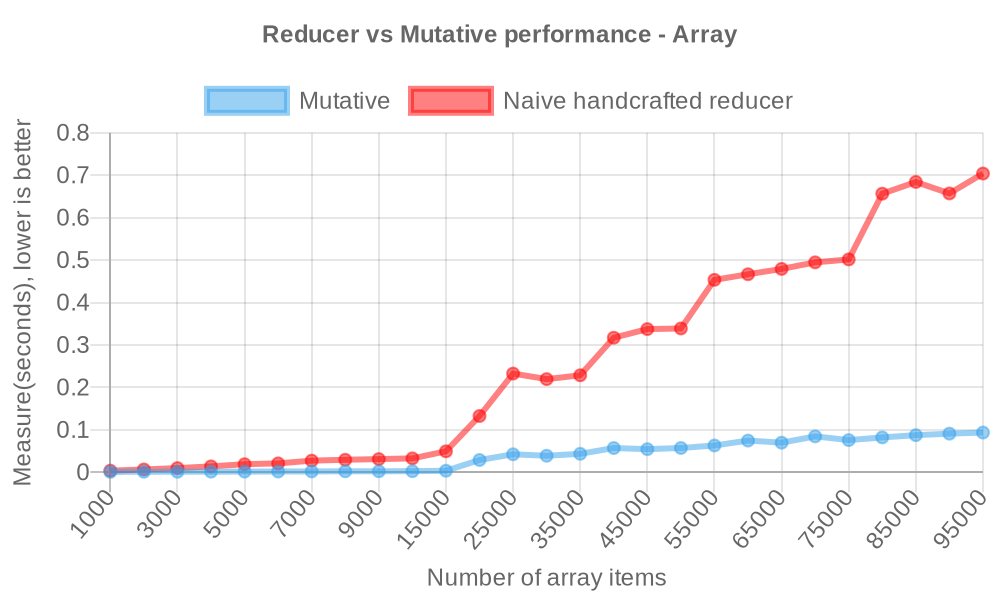
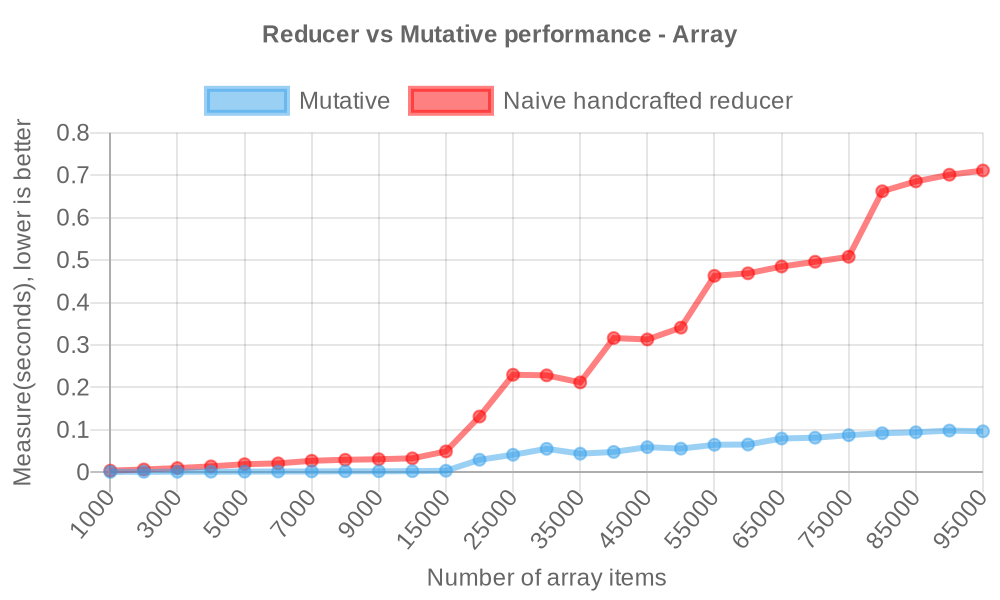
docs(readme): update benchmark doc about mutative vs reducers

diff --git a/test/performance/benchmark-object.ts b/test/performance/benchmark-object.ts
@@ -83,7 +83,7 @@ const run = (size: number) => {
     Array(size)
       .fill(1)
       .reduce(
-        (i, _, key) => Object.assign(i, { [key]: { value: key } }),
+        (acc, _, key) => Object.assign(acc, { [`key${key}`]: { value: key } }),
         {} as Record<string, { value: number }>
       );
 
@@ -97,7 +97,7 @@ const run = (size: number) => {
       'Mutative',
       () => {
         const state = create(baseState, (draft) => {
-          draft[0].value = i;
+          draft.key0.value = i;
         });
       },
       {
@@ -112,7 +112,10 @@ const run = (size: number) => {
       () => {
         const state = {
           ...baseState,
-          0: { value: i },
+          key0: {
+            ...baseState.key0,
+            value: i,
+          },
         };
       },
       {
@@ -126,7 +129,7 @@ const run = (size: number) => {
     //   'Immer',
     //   () => {
     //     const state = produce(baseState, (draft: any) => {
-    //       draft[0].value = i;
+    //       draft.key0.value = i;
     //     });
     //   },
     //   {

diff --git a/test/performance/benchmark-array.ts b/test/performance/benchmark-array.ts
@@ -107,7 +107,10 @@ const run = (size: number) => {
     .add(
       'Naive handcrafted reducer',
       () => {
-        const state = [{ value: i }, ...baseState.slice(1, baseState.length)];
+        const state = [
+          { ...baseState[0], value: i },
+          ...baseState.slice(1, baseState.length),
+        ];
       },
       {
         onStart: () => {

diff --git a/README.md b/README.md
@@ -5,9 +5,61 @@
 [![npm](https://img.shields.io/npm/v/mutative.svg)](https://www.npmjs.com/package/mutative)
 ![license](https://img.shields.io/npm/l/mutative)
 
-**Mutative** - A JavaScript library for efficient immutable updates, 10x faster than Immer by default, even faster than naive handcrafted reducer.
+**Mutative** - A JavaScript library for efficient immutable updates, more than 3x faster than hand-written reducers.
 
-![Benchmark](benchmark.jpg)
+## Mutative vs Reducer Benchmark
+
+- Mutative by objects
+
+```ts
+const state = create(baseState, (draft) => {
+  draft.key0.value = i;
+});
+```
+
+- Naive handcrafted reducer by objects
+
+```ts
+const state = {
+  ...baseState,
+  key0: {
+    ...baseState.key0,
+    value: i,
+  },
+};
+```
+
+![Benchmark by Object](benchmark-object.jpg)
+
+> Measure(seconds) to update the 1K-100K items object, lower is better([view source](https://github.com/unadlib/mutative/blob/main/test/performance/benchmark-array.ts)). 
+
+**Mutative is up to 3x faster than naive handcrafted reducer for updating immutable objects, and more than 3x faster for updating immutable arrays.**
+
+<details>
+<summary>Benchmark by Array</summary>
+
+Naive handcrafted reducer
+
+```ts
+const state = [
+  { ...baseState[0], value: i },
+  ...baseState.slice(1, baseState.length),
+];
+```
+
+Mutative
+
+```ts
+const state = create(baseState, (draft) => {
+  draft[0].value = i;
+});
+```
+
+![Benchmark by Object](benchmark-array.jpg)
+
+> Measure(seconds) to update the 1K-100K items arrays, lower is better([view source](https://github.com/unadlib/mutative/blob/main/test/performance/benchmark-array.ts)). 
+
+</details>
 
 ## Motivation
 
@@ -25,19 +77,21 @@ This is why Mutative was created.
 
 Measure(ops/sec) to update 50K arrays and 1K objects, bigger is better([view source](https://github.com/unadlib/mutative/blob/main/test/performance/benchmark.ts)). [Mutative v0.5.0 vs Immer v10.0.1]
 
+![Benchmark](benchmark.jpg)
+
 ```
-Naive handcrafted reducer - No Freeze x 4,258 ops/sec ±1.14% (89 runs sampled)
-Mutative - No Freeze x 6,421 ops/sec ±1.73% (91 runs sampled)
-Immer - No Freeze x 5.11 ops/sec ±0.78% (17 runs sampled)
+Naive handcrafted reducer - No Freeze x 3,692 ops/sec ±1.28% (95 runs sampled)
+Mutative - No Freeze x 5,425 ops/sec ±1.70% (93 runs sampled)
+Immer - No Freeze x 5.08 ops/sec ±0.58% (17 runs sampled)
 
-Mutative - Freeze x 838 ops/sec ±0.31% (96 runs sampled)
-Immer - Freeze x 365 ops/sec ±0.57% (94 runs sampled)
+Mutative - Freeze x 818 ops/sec ±1.49% (96 runs sampled)
+Immer - Freeze x 357 ops/sec ±0.79% (92 runs sampled)
 
-Mutative - Patches and No Freeze x 762 ops/sec ±1.16% (94 runs sampled)
-Immer - Patches and No Freeze x 5.05 ops/sec ±0.26% (17 runs sampled)
+Mutative - Patches and No Freeze x 746 ops/sec ±0.83% (96 runs sampled)
+Immer - Patches and No Freeze x 5.08 ops/sec ±0.25% (17 runs sampled)
 
-Mutative - Patches and Freeze x 411 ops/sec ±0.46% (92 runs sampled)
-Immer - Patches and Freeze x 266 ops/sec ±0.69% (92 runs sampled)
+Mutative - Patches and Freeze x 408 ops/sec ±0.28% (96 runs sampled)
+Immer - Patches and Freeze x 264 ops/sec ±0.59% (91 runs sampled)
 
 The fastest method is Mutative - No Freeze
 ```
